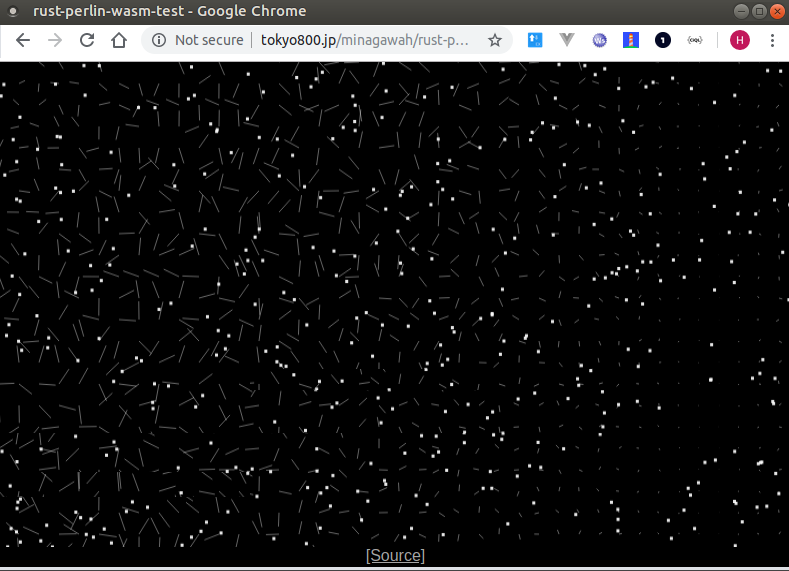
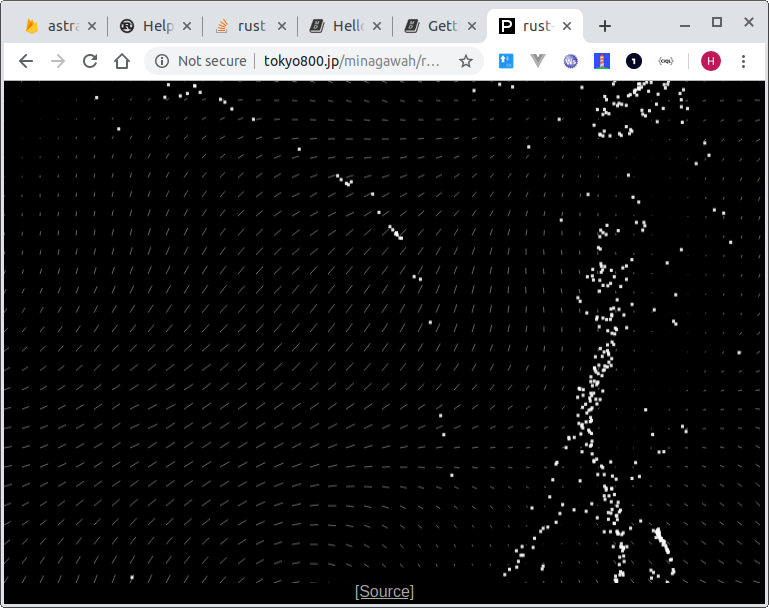
(1) "simplex" instead of "perlin" (2) "Victor" instread of "Vec2"

diff --git a/src/Flows.ts b/src/Flows.ts
@@ -2,11 +2,24 @@
  * Based on Johan Karlsson's blog post:
  * https://codepen.io/DonKarlssonSan/post/particles-in-simplex-noise-flow-field
  */
-import { Vec2 } from './Vec2';
+import Victor from 'victor';
 import { Rect, WindLib, Particle } from './types';
 import { rand, withinRect } from './lib/util';
 import WindLibFactory from './lib/WindLib';
 
+Victor.prototype.setAngle = function (angle) {
+  const length = this.length();
+  this.x = Math.cos(angle) * length;
+  this.y = Math.sin(angle) * length;
+};
+
+Victor.prototype.setLength = function (length) {
+  const angle = this.angle();
+  this.x = Math.cos(angle) * length;
+  this.y = Math.sin(angle) * length;
+};
+
+const ZONE_SIZE = 18;
 const PARTICLE_SIZE = 3;
 
 const int = Math.trunc;
@@ -31,8 +44,7 @@ export default async function factory (canvas: HTMLCanvasElement) {
   // TS2339: Property 'strokeStyle' does not exist on type 'HTMLCanvasElement'.
   const ctx: any = canvas && (canvas as any).getContext('2d');
 
-  // const size = 15;
-  const size = 20;
+  const zsize = ZONE_SIZE;
   
   let width = 0;
   let height = 0;
@@ -57,12 +69,11 @@ export default async function factory (canvas: HTMLCanvasElement) {
   };
 
   const resetField = (): void => {
-    // const f = wind.Fields.new();
     field = new Array(cols);
     for (let x = 0; x < cols; x++) {
       field[x] = new Array(rows);
       for (let y = 0; y < rows; y++) {
-        field[x][y] = new Vec2(0, 0);
+        field[x][y] = new Victor(0, 0);
       }
     }
   };
@@ -85,8 +96,8 @@ export default async function factory (canvas: HTMLCanvasElement) {
     ctx.strokeStyle = 'hsla(0, 0%, 100%, 1)';
     ctx.fillStyle = 'hsla(0, 0%, 100%, 0.9)';
 
-    cols = Math.round(width / size) + 1;
-    rows = Math.round(height / size) + 1;
+    cols = Math.round(width / zsize) + 1;
+    rows = Math.round(height / zsize) + 1;
 
     resetParticles(num);
     resetField();
@@ -98,39 +109,36 @@ export default async function factory (canvas: HTMLCanvasElement) {
 
   // Perlin noise to set new "angle" for each in the field.
   // const angleZoom = (n: number): number => n/20;
-  const angleZoom = (n: number): number => n/100;
+  const angleZoom = (n: number): number => n/20;
+  // const angleZoom = (n: number): number => n/50;
   const getPerlinAngle = (x: number, y: number, zin: number): number => (
     wind.perlin(angleZoom(x), angleZoom(y), zin) * Math.PI * 2
   );
 
   // Perlin noise to set new "length" for each in the field.
-  // const distOffset = 40000;
-  const distOffset = 10;
-  // const disZoom = (n: number): number => n/40 + distOffset;
-  const disZoom = (n: number): number => n/80 + distOffset;
+  const disZoom = (n: number): number => n/40 + 40000;
+  // const disZoom = (n: number): number => n/10 + 40000;
   const getPerlinDist = (x: number, y: number, zin: number): number => (
-    wind.perlin(disZoom(x), disZoom(y), zin) * 0.5
+    wind.perlin(disZoom(x), disZoom(y), zin)
   );
 
   const updateField = (): void => {
     for (let x = 0; x < cols; x++) {
       for (let y = 0; y < rows; y++) {
-        const p: Vec2 = field[x][y];
+        const p: Victor = field[x][y];
         p.setAngle(getPerlinAngle(x, y, zin));
         p.setLength(getPerlinDist(x, y, zin));
       }
     }
-    // zin += 0.001;
-    zin += 0.00015;
   };
 
   const updateParticles = (): void => {
     const rect: Rect = { x: 0, y: 0, width: cols, height: rows };
     particles.forEach((p: Particle): void => {
-      const copy = p.pos.clone().divide(size, size); // (x, y)
-      let v: Vec2;
+      const copy = p.pos.clone().divide({ x: zsize, y: zsize }); // (x, y)
+      let v: Victor;
       if (withinRect(copy, rect)) {
-        v = <Vec2> field[int(copy.x)][int(copy.y)];
+        v = <Victor> field[int(copy.x)][int(copy.y)];
       }
       p.update(v);
     });
@@ -142,6 +150,7 @@ export default async function factory (canvas: HTMLCanvasElement) {
   const update = (): void => {
     updateField();
     updateParticles();
+    zin += 0.001;
   };
 
   // --------------------------
@@ -152,10 +161,10 @@ export default async function factory (canvas: HTMLCanvasElement) {
     ctx.strokeStyle = 'hsla(0, 0%, 100%, 0.4)';
     for (let x = 0; x < cols; x++) {
       for (let y = 0; y < rows; y++) {
-        const px0 = x * size;
-        const py0 = y * size;
-        const px1 = px0 + field[x][y].x * size * 2;
-        const py1 = py0 + field[x][y].y * size * 2;
+        const px0 = x * zsize;
+        const py0 = y * zsize;
+        const px1 = px0 + field[x][y].x * zsize * 2;
+        const py1 = py0 + field[x][y].y * zsize * 2;
         ctx.beginPath();
         ctx.moveTo(px0, py0);
         ctx.lineTo(px1, py1);
@@ -203,34 +212,34 @@ export default async function factory (canvas: HTMLCanvasElement) {
  */
 function createParticle ({ ctx, index, width, height }: CreateParticle): Particle {
 
-  const size = PARTICLE_SIZE;
-  const pos = new Vec2(rand(0, width), rand(0, height));
-  const vel = new Vec2(rand(-1, 1), rand(-1, 1));
+  const psize = PARTICLE_SIZE;
+  const pos = new Victor(rand(0, width), rand(0, height));
+  const vel = new Victor(rand(-1, 1), rand(-1, 1));
   
   return {
     pos,
-    update: (v: Vec2) => {
+    update: (v: Victor) => {
       if (v) {
         vel.add(v);
       }
       pos.add(vel);
 
-      if (vel.getLength() > 2) {
+      if (vel.length() > 2) {
         vel.setLength(2);
       }
       if (pos.x > width) {
         pos.x = 0;
-      } else if (pos.x < -size) {
+      } else if (pos.x < -psize) {
         pos.x = width - 1;
       }
       if (pos.y > height) {
         pos.y = 0;
-      } else if (pos.y < -size) {
+      } else if (pos.y < -psize) {
         pos.y = height - 1;
       }
     },
     draw: () => {
-      ctx.fillRect(pos.x, pos.y, size, size);
+      ctx.fillRect(pos.x, pos.y, psize, psize);
     }
   };
 }

diff --git a/src/types.ts b/src/types.ts
@@ -1,4 +1,4 @@
-import { Vec2 } from './Vec2';
+import Victor from 'victor';
 
 export interface Point2 {
   x: number;
@@ -28,7 +28,7 @@ export interface WebAssemblyResult {
 }
 
 export interface Particle {
-  pos: Vec2;
+  pos: Victor;
   update: Function;
   draw: Function;
 }

diff --git a/README.md b/README.md
@@ -11,6 +11,15 @@ Generates wind blown particles using WASM.
 [4. Notes](#notes)  
 [5. LICENSE](#license)  
 
+![screenshot](screenshot.png "Screenshot")
+
+[View Demo](http://tokyo800.jp/minagawah/rust-perlin-wasm-test/)
+
+**Check out [rust-perlin-wasm-test-2](https://github.com/minagawah/rust-perlin-wasm-test-2/)
+which is another attempt to accomplish the same
+except it uses [wasm-pack](https://github.com/rustwasm/wasm-pack)
+instead of wholly depends upon the `nightly` toolchain.**
+
 
 <a id="about"></a>
 ## 1. About
@@ -20,15 +29,6 @@ Just calling from browser the perlin noise generator provided by one of Rust's c
 [noise](https://docs.rs/noise/0.5.1/noise/).  
 Currently, the array iteration for making a vector field (of wind vectors)
 is done by Javascript. Hopefully, I will let Rust do the job instead.
-
-[View Demo](http://tokyo800.jp/minagawah/rust-perlin-wasm-test/)
-
-**Check out [rust-perlin-wasm-test-2](https://github.com/minagawah/rust-perlin-wasm-test-2/)
-which is another attempt to accomplish the same
-except it uses [wasm-pack](https://github.com/rustwasm/wasm-pack)
-instead of wholly depends on the `nightly` toolchain.**
-
-![screenshot](screenshot.png "Screenshot")
 
 
 <a id="dev"></a>
@@ -112,6 +112,7 @@ yarn global add ts-node
 yarn add typescript ts-loader eslint @typescript-eslint/parser @typescript-eslint/eslint-plugin webpack webpack-cli webpack-dev-server file-loader html-loader css-loader style-loader postcss-loader autoprefixer html-webpack-plugin copy-webpack-plugin clean-webpack-plugin mini-css-extract-plugin webpack-manifest-plugin license-webpack-plugin webpack-merge tape @types/tape --dev
 
 yarn add debounce-ctx
+yarn add victor
 ```
 
 
